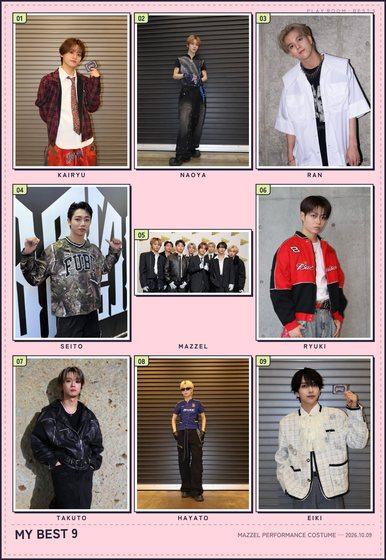
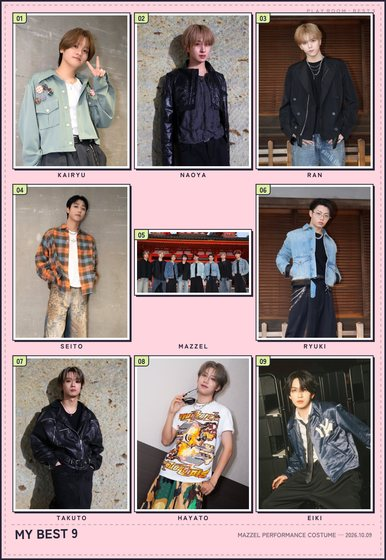
最強9マス パフォ衣装：各メンバーの上部4枚を候補から外す
new-20260918 の3枚（縦長画像の切り出し）と12枚目を使わず、01〜11枚目から選ぶ。
初期表示は11枚目に。トップのサムネイルも新しい候補で作り直し。

Claude-Session: https://claude.ai/code/session_01K8xDPPFVMC6Sd6hHVJ7xrK

diff --git a/best9-performance/index.html b/best9-performance/index.html
@@ -172,7 +172,7 @@
 (function () {
 "use strict";
 
-/* ---------- データ：パフォーマンス衣装編も https://raw.githubusercontent.com/rikomuze/mazzel-best-visual-performance/main/images/メンバー/01.png〜12.png（集合は group/01〜09.png）を読む ---------- */
+/* ---------- データ：パフォーマンス衣装編も https://raw.githubusercontent.com/rikomuze/mazzel-best-visual-performance/main/images/メンバー/01.png〜11.png（集合は group/01〜09.png）を読む ---------- */
 var cells = [
   { member: "kairyu", name: "KAIRYU" },
   { member: "naoya",  name: "NAOYA" },
@@ -191,10 +191,10 @@ var imageCounts = {
 };
 
 /* ---------- 状態 ---------- */
-/* 実際にある写真の枚数（メンバー各12枚・集合9枚）。
-   new1〜new3 は new-20260918/メンバー名.jpg（縦に3枚つながった画像）を上・中・下で切り出したもの */
-var PHOTO_COUNT = { group: 9, member: 12 };
-var selection = cells.map(function(cell){ return cell.member === "group" ? PHOTO_COUNT.group : "new1"; }); // 初期表示は最新画像
+/* 選べる写真の枚数（メンバーは01〜11枚目・集合は01〜09枚目）。
+   12枚目と new-20260918 の3枚は画質をそろえるため使わない */
+var PHOTO_COUNT = { group: 9, member: 11 };
+var selection = cells.map(function(cell){ return cell.member === "group" ? PHOTO_COUNT.group : PHOTO_COUNT.member; }); // 初期表示は番号のいちばん大きい写真
 var currentCellIndex = null;
 var lastFocused = null;
 
@@ -250,8 +250,7 @@ function choicesFor(member) {
   var n = member === "group" ? PHOTO_COUNT.group : PHOTO_COUNT.member;
   var existing = [n];
   for (var i = 1; i < n; i++) existing.push(i);
-  if (member === "group") return existing;
-  return ["new1", "new2", "new3"].concat(existing);
+  return existing;
 }
 /* 軽量化: 元画像(約1MB)をそのまま読まず、リサイズ配信(wsrv.nl)で小さく読む。失敗したら元画像に自動で戻る */
 function fastSrc(url, w) {
